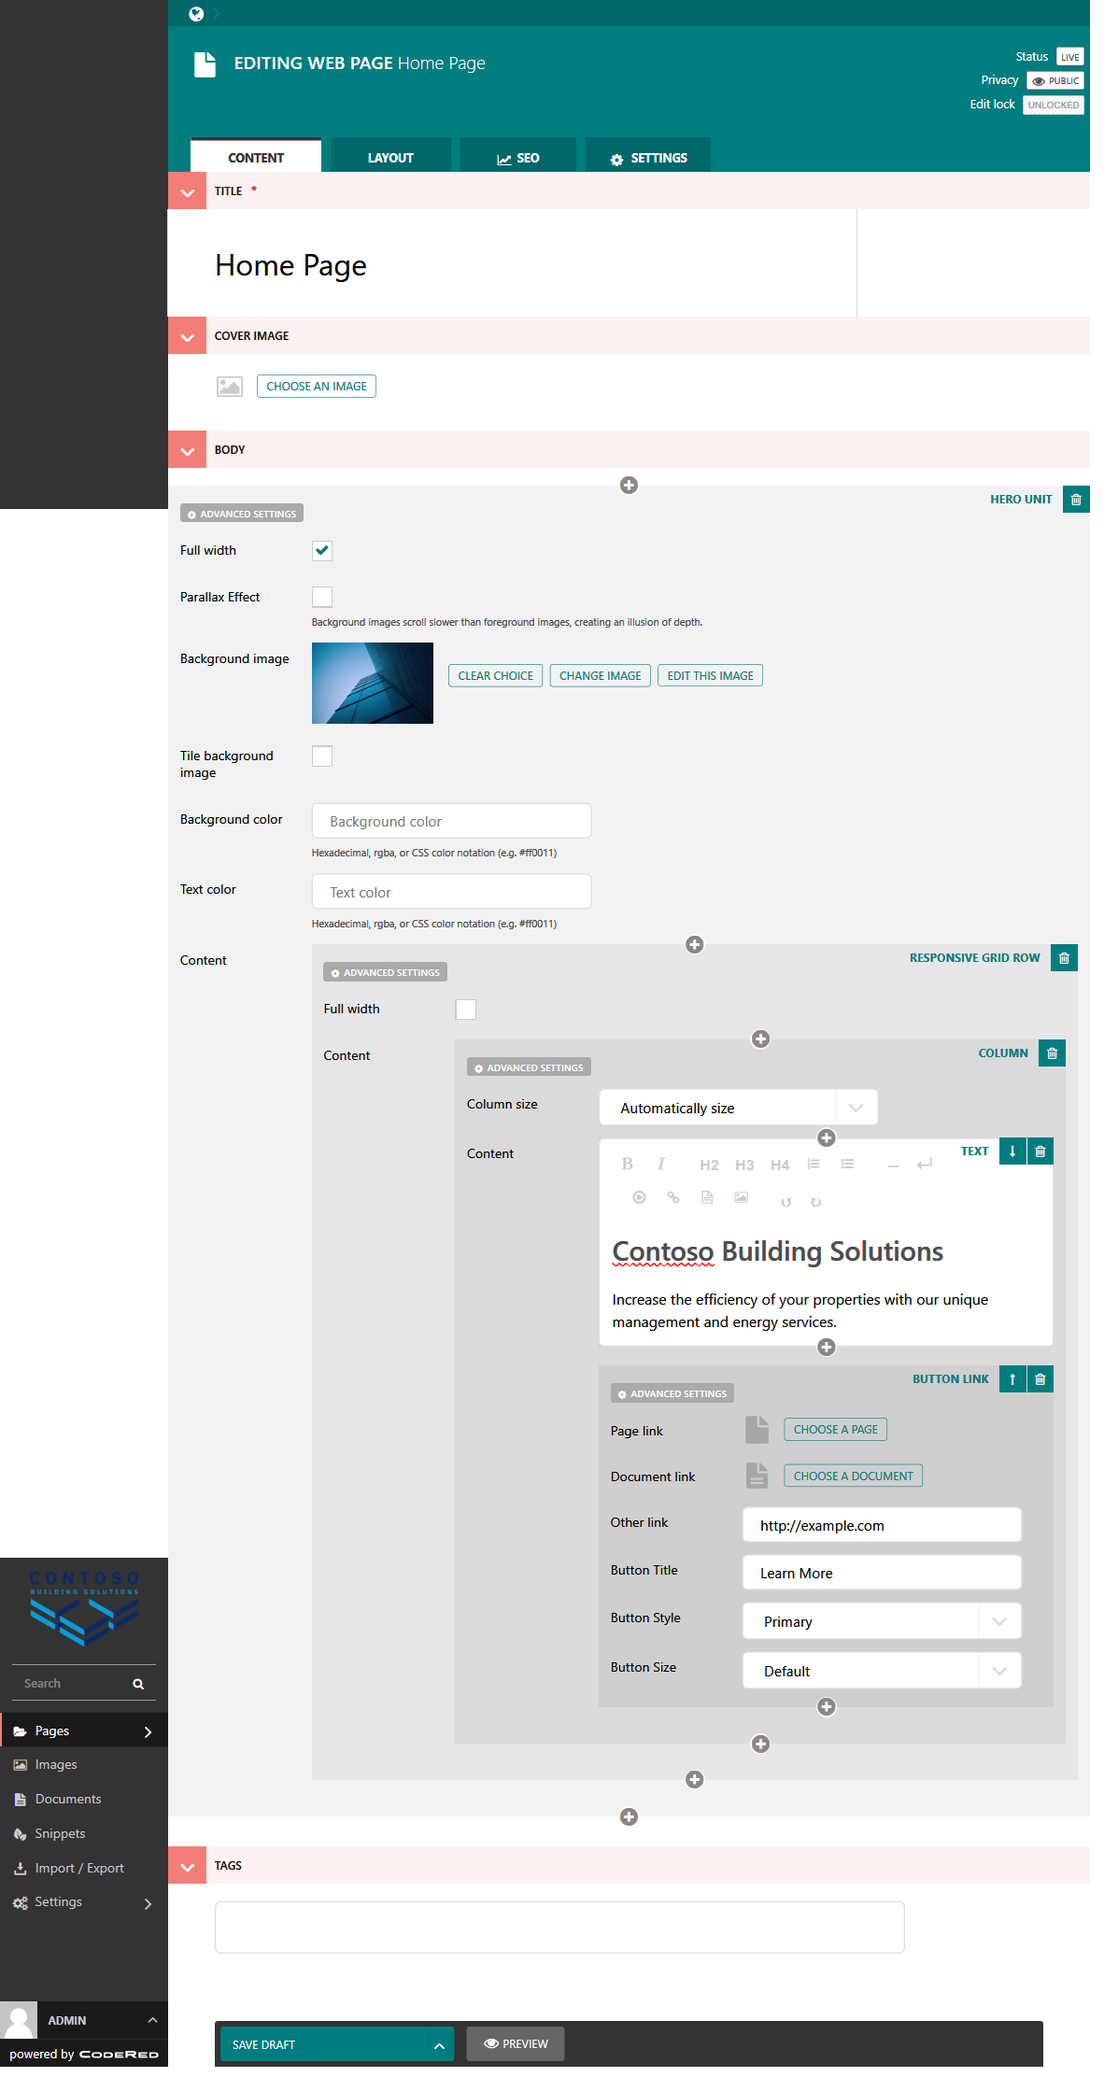
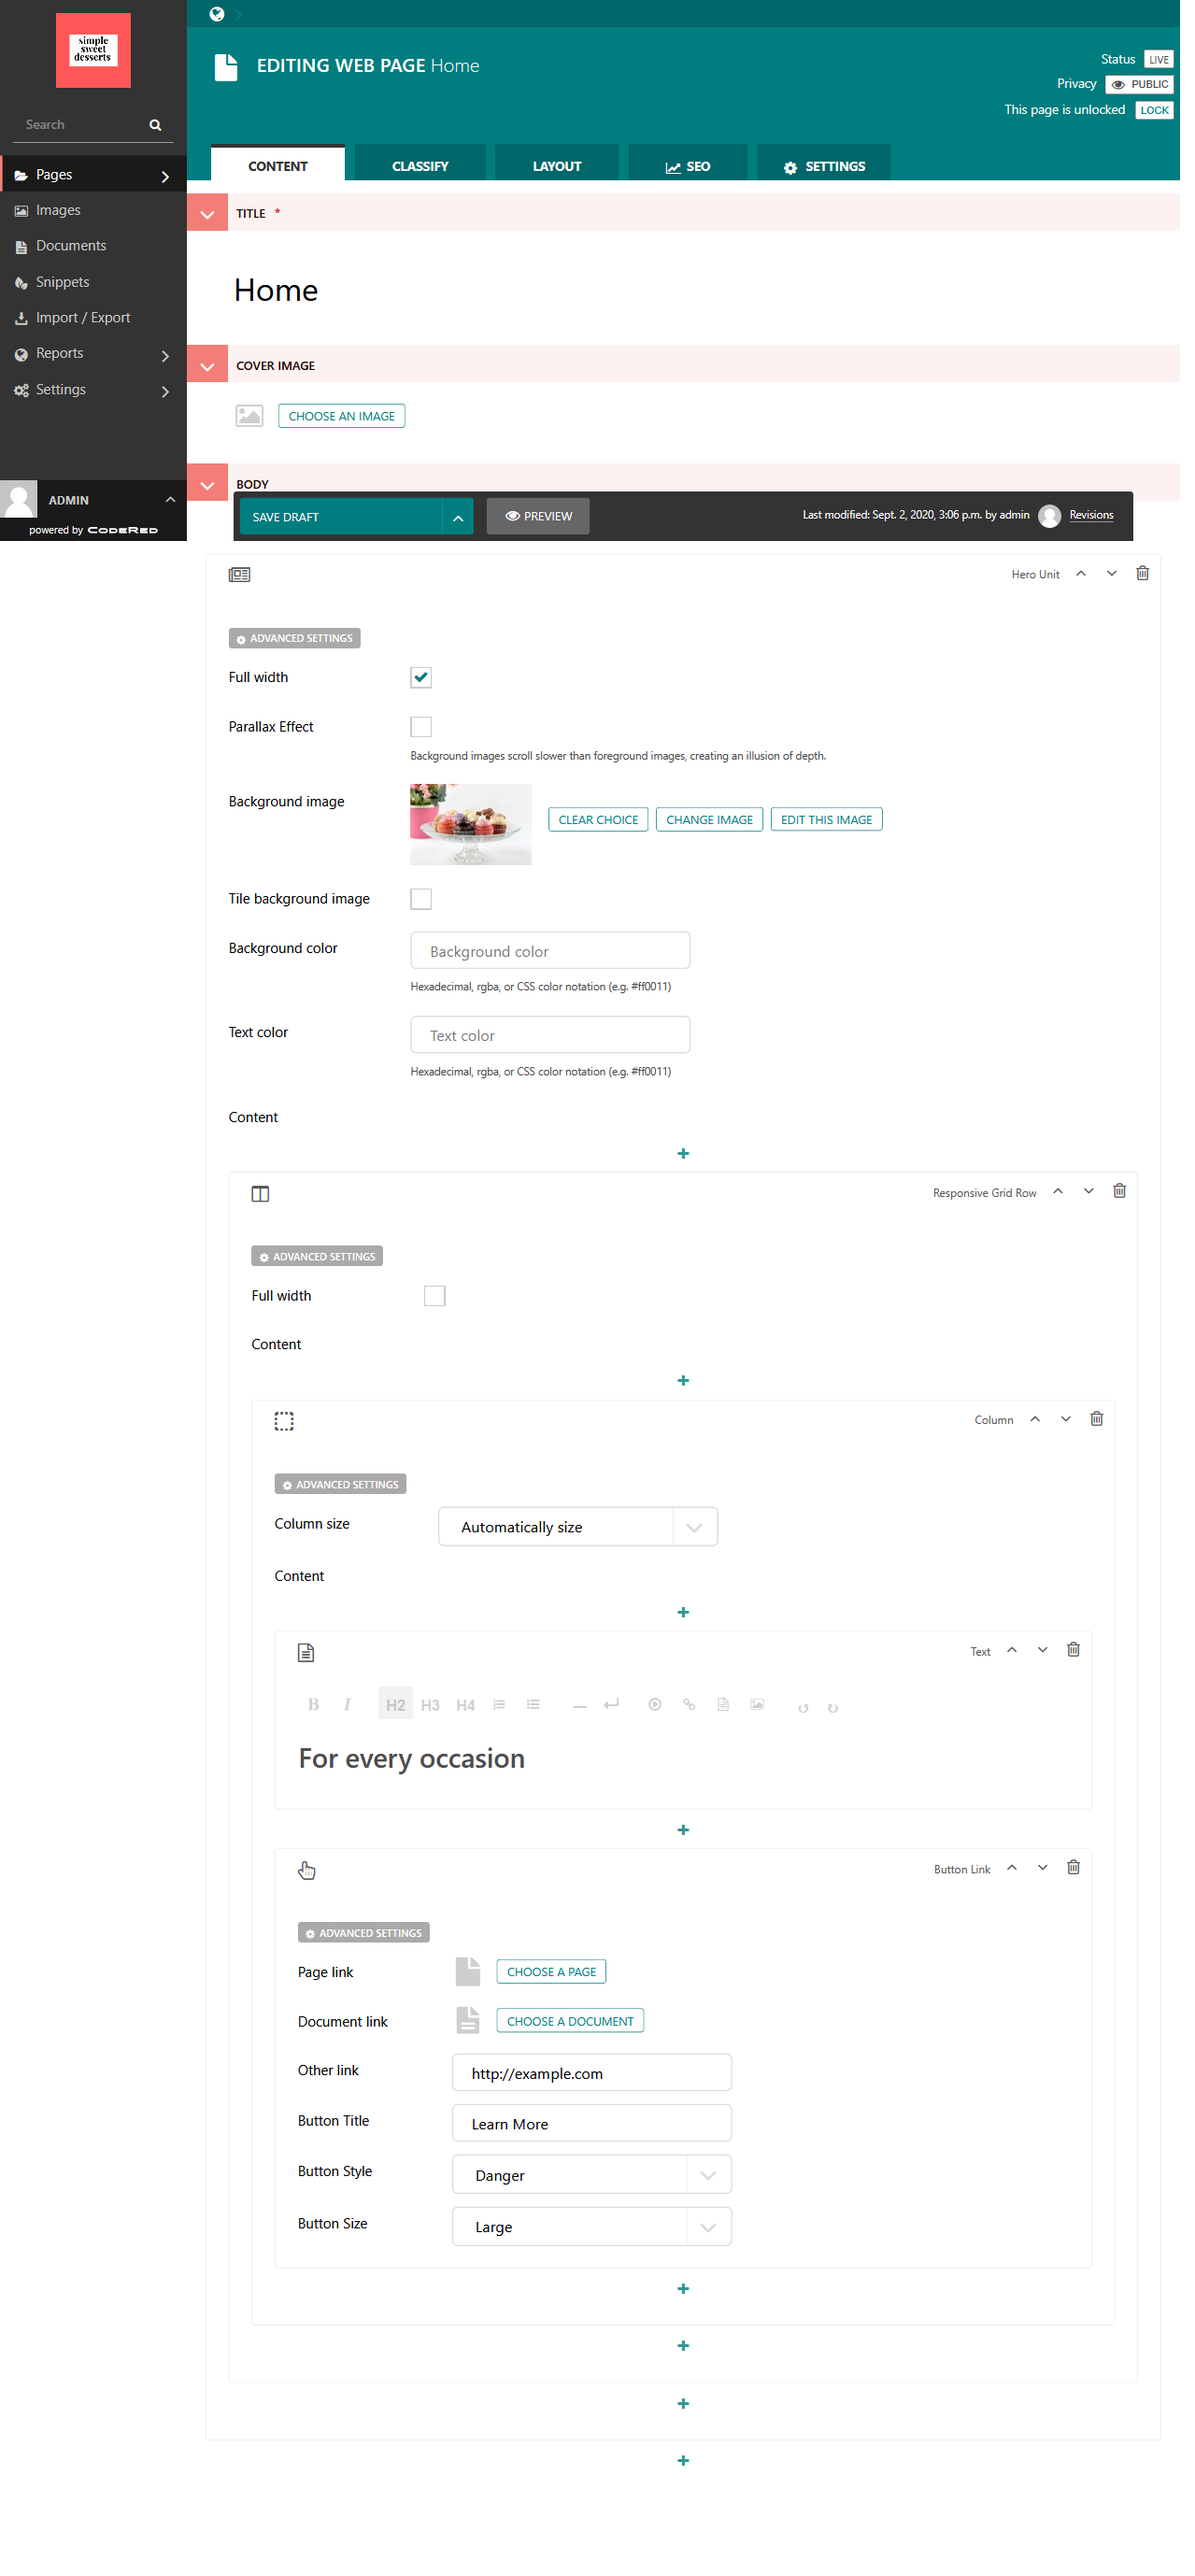
updating photos in tutorial

diff --git a/docs/getting_started/tutorial02.rst b/docs/getting_started/tutorial02.rst
@@ -8,7 +8,7 @@ Adding a hero unit to the home page
 -----------------------------------
 
 In the admin dashboard, select **Pages >**. This will open a tree-style view of all the pages
-on our site. For now, the only page is Home Page. Click end pencil icon to edit the page, or click
+on our site. For now, the only page is Home Page. Click the pencil icon to edit the page, or click
 "Home Page" and then the "Edit" button.
 
 Here in the body section is where we can add our content. Each component in this section is called
@@ -20,7 +20,7 @@ First, let's make a big flashy hero unit. A hero unit in CodeRed CMS is a block 
 a full-width background image or background color, and has lots of padding by default.
 
 Select the **Hero Unit** block. Next set a background image or color - I'm going to download and use
-`this image <https://unsplash.com/photos/jwhqbR3clzQ>`_ from `Unsplash <https://unsplash.com>`_.
+`this image <https://pixabay.com/photos/cupcake-bakery-dessert-sweet-4457880/>`_ from `Pixabay <https://pixabay.com>`_.
 
 Now to add content to our hero unit, under the Content field select **Responsive Grid Row** and then
 a **Column**. Inside my column I'll add **Text** and format it.
